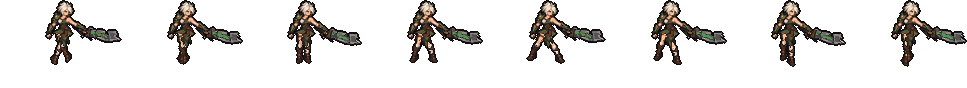
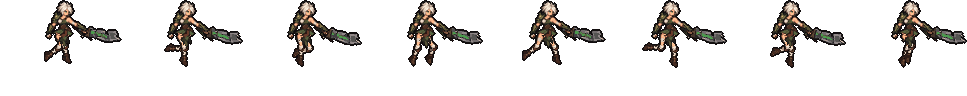
Riven's run with bending knees: League's gait from her far leg cut at the knee
The user on the straight-leg scissor: 「你觉得对吗 两个腿这样走路的？」 - no, a run bends the knees. Now both run legs are her
far (right) leg cut from the picture in two (thigh with its top carried on up under the skirt, shin with the boot,
overlapping over the knee's wrap so the joint never opens) - its boot points forward; the near boot in the picture
points out to the left. Eight phases of (thigh, shin) angles after League's run (front leg reaching, support leg
straight, push-off, the foot kicked up behind, the knee driven forward), the near leg 4 phases from the far one, the
body set so the lower sole stands on the ground, hips 3 columns in each, the upper body leaning 2 ahead, the blade low
and level. Riven only; ppu_hd --check OK; no loose pieces.

diff --git a/tools/art/rig_riven_hd.py b/tools/art/rig_riven_hd.py
@@ -40,20 +40,22 @@ BAND = 41                                    # legs start below this row
 # knee - a thigh and a lower leg turned apart - the knee showed a step). (hip, knee, sole) in design squares
 NEAR = ((15.5, 33.2), (9, 44.2), (3.5, 58.8))
 FAR = ((27.5, 34.5), (34.5, 45.5), (42, 59.3))
-# the run after League's (tools/lol/native_pose.py assets/source/riven/poses.json run; 「锐雯走路姿势不对啊」 - her
-# wide stance kept, the legs barely moved): her hips brought together under her skirt (she turns side-on to run) and
-# each straight leg swung forward and back as a whole from its hip - a scissor stride, the near leg forward in frames
-# 1-2 and back in 5-6, the far leg the other way, crossing just under the hem like a side view's. The leg swinging
-# forward is lifted (its top goes up under her skirt), the body comes down as the stride opens so the planted feet stay
-# on the ground, the blade held low ahead as League's. Degrees past straight down (counter-clockwise on screen = the
-# foot forward); the far leg's are the near leg's negated
-RUN_NEAR = [24, 13, 0, -13, -24, -13, 0, 13]
-NEAR_LIFT = [0, 0, 0, 0, 0, 2, 3, 2]
-FAR_LIFT = [0, 2, 3, 2, 0, 0, 0, 0]
-RUN_HIPS = (3, -3)                           # columns the near / far leg moves in under her skirt
+# the run after League's (tools/lol/native_pose.py assets/source/riven/poses.json run). Straight legs swung from the
+# hips (「你觉得对吗 两个腿这样走路的？」) and a wide stance barely moved (「锐雯走路姿势不对啊」) were both wrong: a run bends
+# the knees - the front leg reaching with the knee nearly straight, the back leg pushing off and the foot kicked up
+# behind with the shin folded. Both legs are her far (right) leg cut from the picture in two - the thigh (its top
+# carried on up under the skirt) and the shin with the boot, the knee's wrap shared so the joint never opens - because
+# its boot points forward (the near boot in the picture points out to the left: running right, that foot pointed back).
+# Per phase (thigh, shin) in degrees from straight down, positive = the foot forward; the near leg in phase i, the far
+# leg 4 phases on; the body set so the lower sole stands on the ground; hips 3 columns in each under the skirt.
+RUN_GAIT = [(28, 6), (16, -6), (2, -10), (-14, -24), (-26, -56), (-14, -96), (14, -74), (32, -22)]
+RUN_HIPS = (3, -3)
 RUN_LEAN = 2                                 # columns her upper body leans ahead of her hips
-LEG_LEN = 26.0                               # hip to sole, design squares
 RUN_SWORD = [26, 24, 22, 24, 26, 24, 22, 24]
+# the run leg in picture pixels (the far leg): its outline region, the knee line, the sword's lower edge to keep out
+RUN_LEG_AREA = [(312, 405), (402, 405), (428, 468), (472, 540), (478, 600), (525, 640), (600, 676), (600, 756),
+                (440, 756), (432, 700), (392, 640), (372, 580), (336, 520), (306, 468)]
+SWORD_EDGE = ((420, 476), (600, 640))       # picture pixels above this line (right of x 420) are the sword's
 
 
 def vertical(leg):
@@ -115,6 +117,7 @@ def design():
                 fills=[[(22, 12), (27, 13), (28, 20), (27.5, 27), (27, 33), (22, 33)]])
     D.part("upper", D.rest(), take=False)
     D.green = reforged(D.pic)
+    run_legs(D)
     return D
 
 
@@ -142,12 +145,103 @@ def pose(rig, up=(0, 0), sword=0, whole=(0, 0), near=0, far=0, green=False, lift
     return R.compose(rig, layers)
 
 
+def run_legs(D):
+    """The run's thigh and shin (Design props "run_thigh", "run_shin") from the far leg in the picture: the leg's own
+    pixels (skin, wraps, leather, boot, outline; not the skirt's greens, not the sword), split across the knee with an
+    overlap (the thigh to 1.6 squares below the knee, the shin from 1.8 above it); the thigh's top row carried on up
+    along the thigh to 2 squares above the hip, under the skirt, so no gap opens there when it turns. D.run_src is the
+    picture with that extension painted in."""
+    from PIL import Image, ImageDraw
+    pic = D.pic
+    H, W = pic.shape[:2]
+    img = Image.new("L", (W, H), 0)
+    ImageDraw.Draw(img).polygon(RUN_LEG_AREA, fill=1)
+    area = np.asarray(img, bool) & (pic[..., 3] > 0)
+    yy, xx = np.mgrid[0:H, 0:W]
+    (sx0, sy0), (sx1, sy1) = SWORD_EDGE
+    area &= ~((xx > sx0) & (yy < sy0 + (xx - sx0) * (sy1 - sy0) / (sx1 - sx0)))
+    rgb = pic[..., :3].astype(int)
+    skirt = (rgb[..., 1] >= rgb[..., 0] - 12) & (rgb[..., 2] < rgb[..., 1] - 12) & (rgb.sum(-1) > 90)
+    leg = area & ~skirt
+    # the leg is the biggest piece of that (skirt crumbs and strap ends off)
+    lbl, n = ndimage.label(leg, structure=np.ones((3, 3)))
+    sz = ndimage.sum(leg, lbl, range(1, n + 1))
+    leg = lbl == (1 + int(np.argmax(sz)))
+    leg = ndimage.binary_fill_holes(leg) & (pic[..., 3] > 0)
+    hip, knee = (np.array(D.d2p(*v)) for v in (FAR[0], FAR[1]))
+    u = (knee - hip) / np.hypot(*(knee - hip))
+    along = (xx - knee[0]) * u[0] + (yy - knee[1]) * u[1]       # picture px past the knee, along the thigh
+    sq = 1 / D.k
+    thigh = leg & (along <= 1.6 * sq)
+    shin = leg & (along >= -1.8 * sq)
+    # the thigh carried up: each picture row above its top visible row copies that row, moved along the thigh
+    src = pic.copy()
+    rows = np.nonzero(thigh.any(1))[0]
+    top = rows.min() + 2
+    ref = np.nonzero(thigh[top])[0]
+    for y in range(int(hip[1] - 2 * sq), top):
+        dx = int(round((y - top) * u[0] / u[1]))
+        xs = ref + dx
+        ok = (xs >= 0) & (xs < W)
+        src[y, xs[ok]] = pic[top, ref[ok]]
+        thigh[y, xs[ok]] = True
+    for name, m in (("run_thigh", thigh), ("run_shin", shin)):
+        D.props.add(name)
+        D.prop_masks[name] = m
+        D.polys[name] = RUN_LEG_AREA
+    D.run_src = src
+
+
+def turned_point(p, about, deg):
+    """p turned deg counter-clockwise on screen about `about` (design squares)."""
+    th = np.radians(deg)
+    ax, ay = about
+    return np.array((ax + (p[0] - ax) * np.cos(th) + (p[1] - ay) * np.sin(th),
+                     ay - (p[0] - ax) * np.sin(th) + (p[1] - ay) * np.cos(th)))
+
+
+def heading(v):
+    """Degrees from straight down of a design vector, positive = toward +x (forward)."""
+    return float(np.degrees(np.arctan2(v[0], v[1])))
+
+
+def run_leg(hip_to, t1, t2, dx, dy):
+    """compose() layers (shin first, then the thigh over the knee) for a run leg with its hip at hip_to (design
+    squares, before the whole move dx, dy), the thigh at t1 and the shin at t2 degrees from straight down. -> (layers,
+    sole design position)."""
+    hip, knee, sole = (np.array(v, float) for v in FAR)
+    r1 = round((t1 - heading(knee - hip)) / 2) * 2
+    r2 = round((t2 - heading(sole - knee)) / 2) * 2
+    hx, hy = int(round(hip_to[0] - hip[0])), int(round(hip_to[1] - hip[1]))
+    k_at = turned_point(knee, hip, r1) + (hx, hy)
+    kx, ky = int(round(k_at[0] - knee[0])), int(round(k_at[1] - knee[1]))
+    s_at = turned_point(sole, knee, r2) + (kx, ky)
+    src = DESIGN.run_src
+    return [("run_shin", dict(dx=kx + dx, dy=ky + dy, angle=r2, about=tuple(knee), src=src)),
+            ("run_thigh", dict(dx=hx + dx, dy=hy + dy, angle=r1, about=tuple(hip), src=src))], s_at
+
+
 def run_frame(rig, i):
-    n, f = RUN_NEAR[i], -RUN_NEAR[i]
-    drop = int(round(LEG_LEN * (1 - np.cos(np.radians(abs(n))))))
-    return pose(rig, up=(1, 0), whole=(0, drop), sword=RUN_SWORD[i], near=vertical(NEAR) + n,
-                far=vertical(FAR) + f, lift=(NEAR_LIFT[i], FAR_LIFT[i]), hips=RUN_HIPS,
-                lean=RUN_LEAN)
+    D = rig.D
+    up = (1, 0)
+    legs, soles = [], []
+    for leg, ph, hx in ((FAR, (i + 4) % 8, RUN_HIPS[1]), (NEAR, i, RUN_HIPS[0])):
+        hip_to = (leg[0][0] + hx, leg[0][1])
+        lay, sole = run_leg(hip_to, *RUN_GAIT[ph], 0, 0)
+        legs.append(lay)
+        soles.append(sole)
+    drop = int(round(FAR[2][1] - max(s[1] for s in soles)))    # the lower sole on the ground
+    wx, wy = up[0], drop
+    layers = []
+    for lay in legs:
+        for name, o in lay:
+            o = dict(o)
+            o["dx"] += wx
+            o["dy"] += wy
+            layers.append((name, o))
+    layers.append(("upper", dict(dx=wx + RUN_LEAN, dy=wy)))
+    layers.append(("sword", dict(dx=wx + RUN_LEAN, dy=wy, angle=RUN_SWORD[i], about=SHOULDER)))
+    return R.compose(rig, layers)
 
 
 def lying(rig, sword=123):
